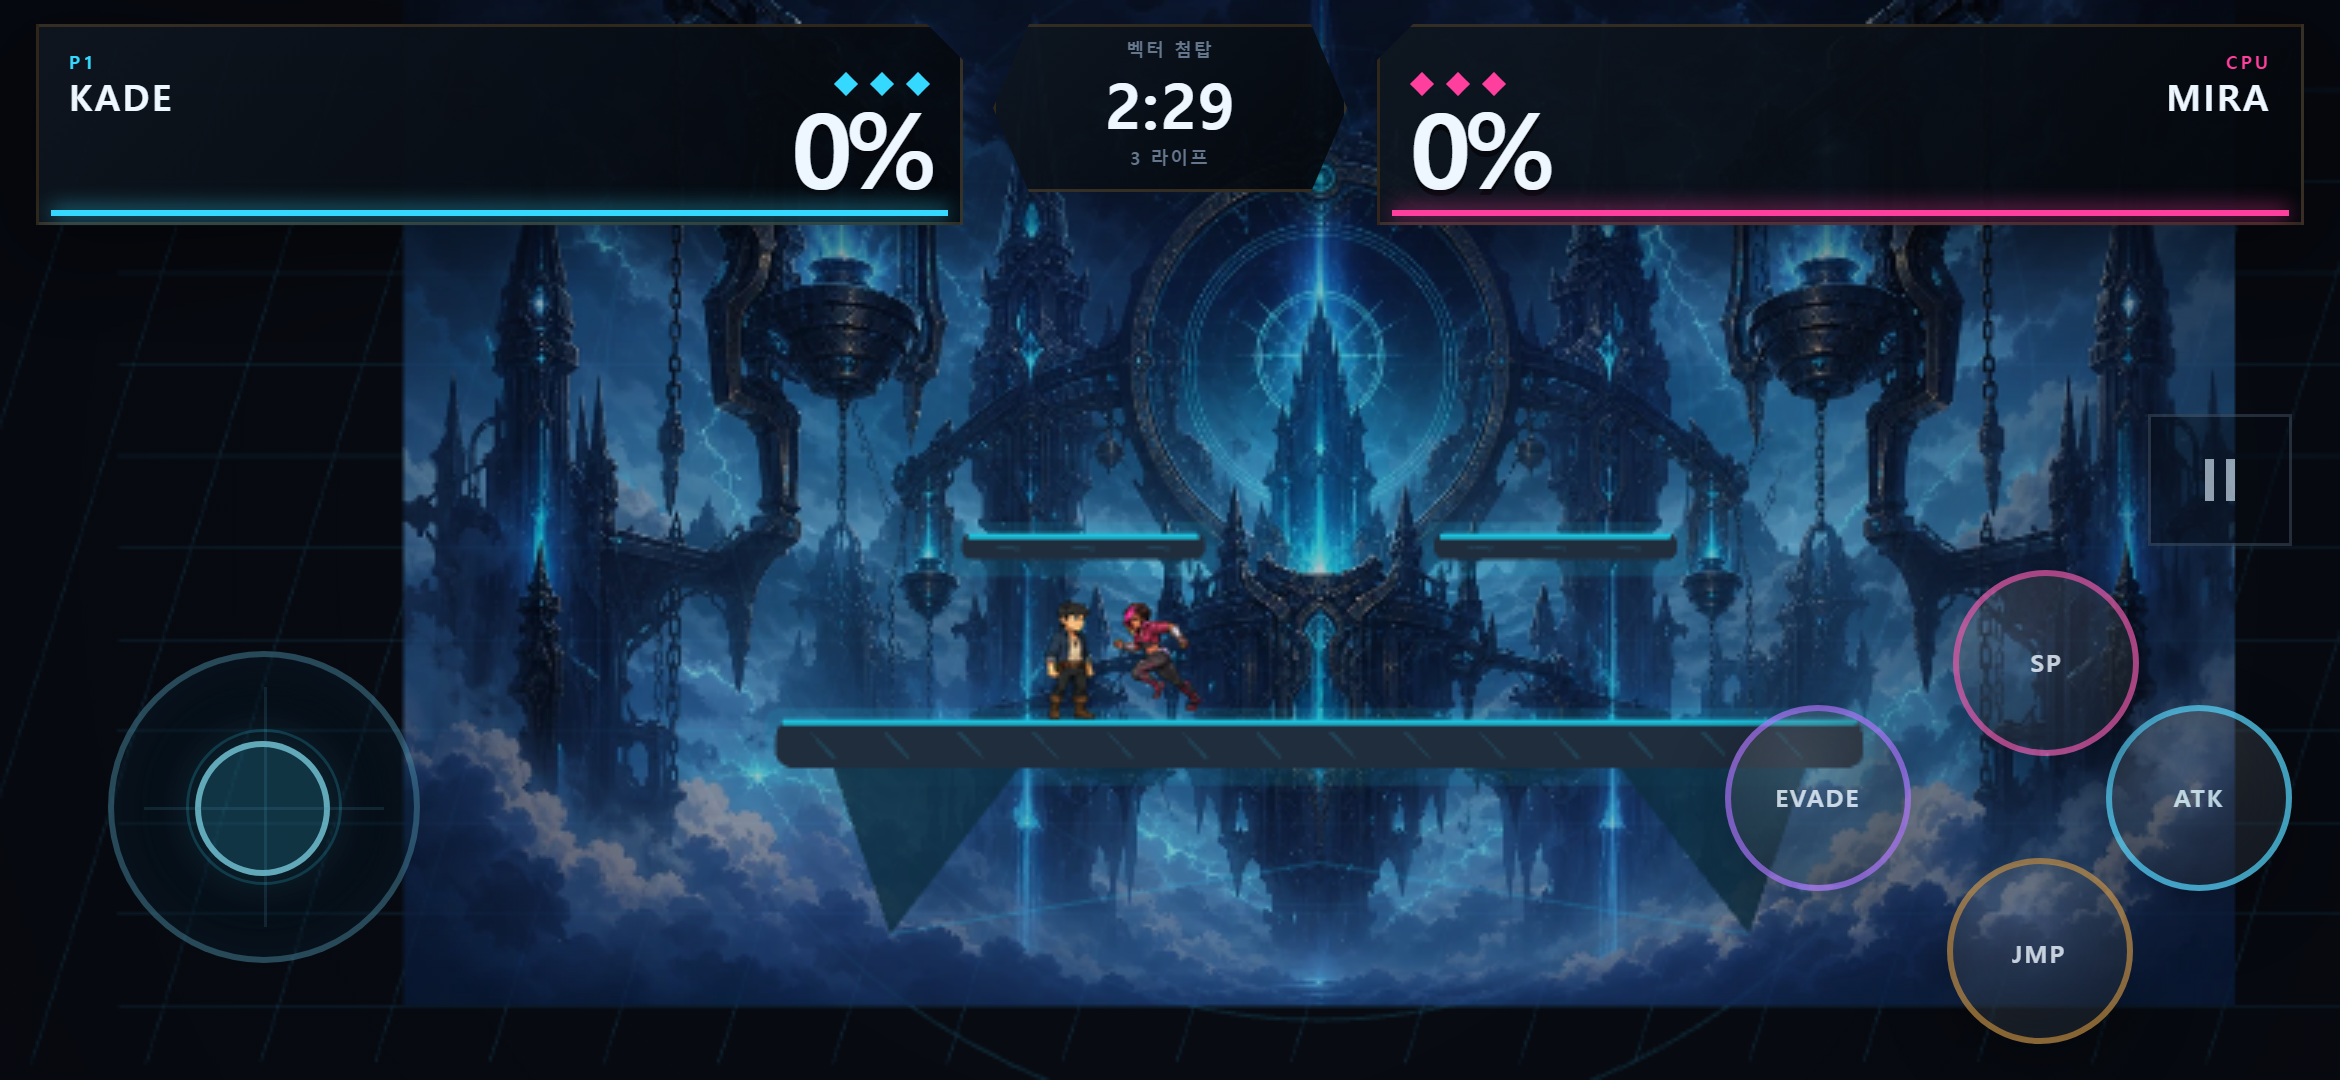
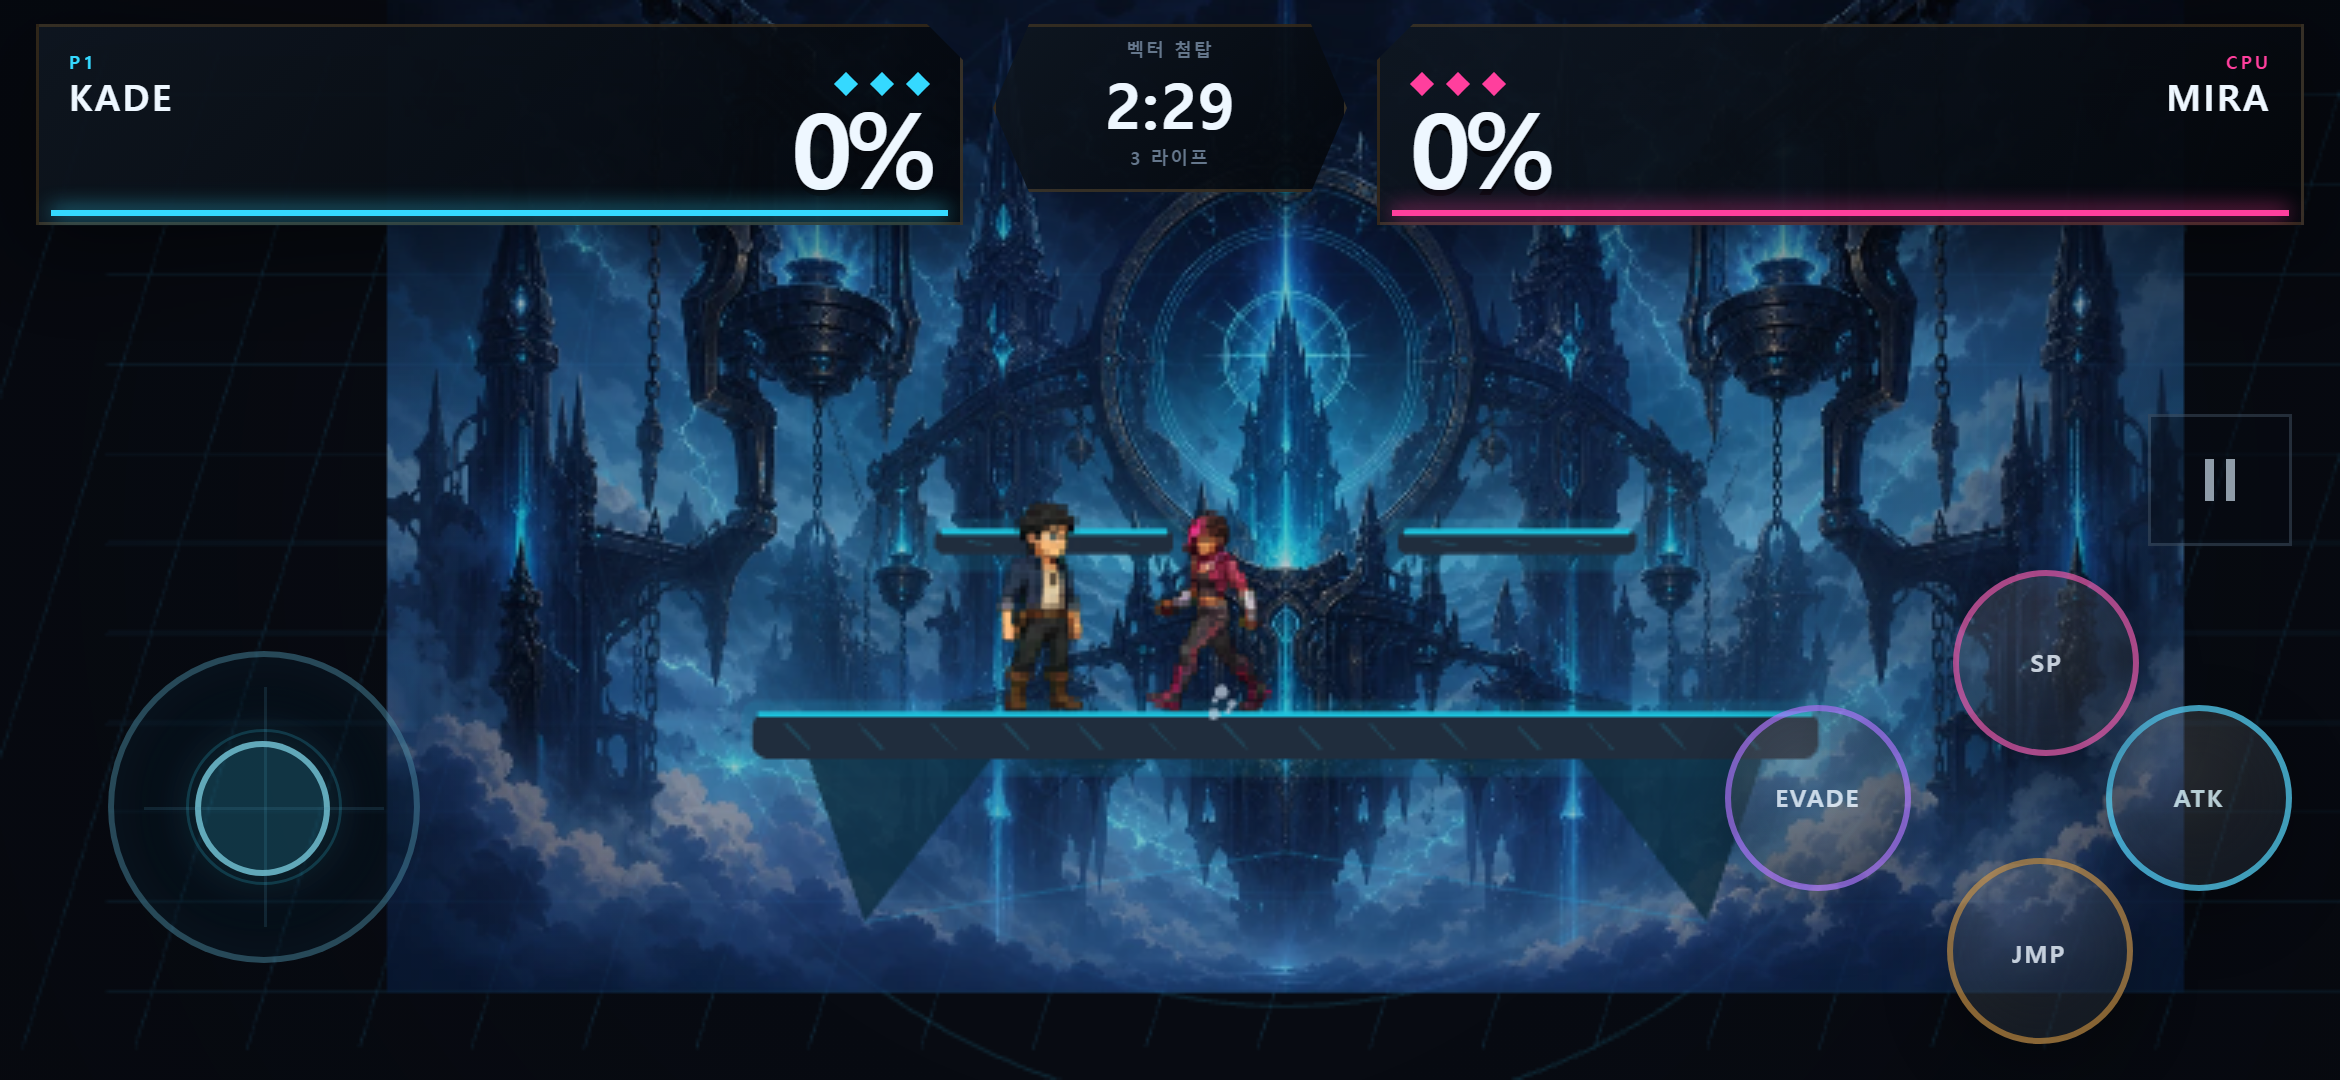
Improve mobile landscape combat visibility

diff --git a/src/ui/App.ts b/src/ui/App.ts
@@ -52,6 +52,7 @@ interface DebugBridge {
   getState: () => WorldState | null;
   getPlayerSpriteSnapshot: () => SpriteAnimatorSnapshot | null;
   getFighterSpriteSnapshot: (id: FighterInstanceId) => SpriteAnimatorSnapshot | null;
+  getFighterVisualScale: () => number;
   isStageBackgroundReady: () => boolean;
   getAudioState: () => AudioContextState | 'uninitialized';
   releaseInputs: () => void;
@@ -413,6 +414,7 @@ export class RiftForgeApp {
       hazards: mode === 'debug' ? false : this.settings.hazards,
     };
     this.renderGameShell(options);
+    this.updateVirtualLandscape();
     const parent = requiredElement<HTMLElement>(this.root, '[data-game-canvas]');
     const touchRoot = requiredElement<HTMLElement>(this.root, '[data-touch-root]');
     this.input.attachTouch(touchRoot);
@@ -436,6 +438,7 @@ export class RiftForgeApp {
         getState: () => this.renderer?.scene.getWorld() ?? null,
         getPlayerSpriteSnapshot: () => this.renderer?.scene.getPlayerSpriteSnapshot() ?? null,
         getFighterSpriteSnapshot: (id) => this.renderer?.scene.getFighterSpriteSnapshot(id) ?? null,
+        getFighterVisualScale: () => this.renderer?.scene.getFighterVisualScale() ?? 1,
         isStageBackgroundReady: () => this.renderer?.scene.isStageBackgroundReady() ?? false,
         getAudioState: () => this.audio.getContextState(),
         releaseInputs: () => this.input.releaseAll(),
@@ -677,7 +680,10 @@ export class RiftForgeApp {
       case 'training': this.beginSelection('training'); break;
       case 'shop': this.setScreen('shop'); break;
       case 'help': this.setScreen('help'); break;
-      case 'debug': this.startGame('debug'); break;
+      case 'debug':
+        void this.requestLandscapeOrientation();
+        this.startGame('debug');
+        break;
       case 'open-settings':
         this.settingsReturnScreen = this.screen;
         this.setScreen('settings');
@@ -710,7 +716,10 @@ export class RiftForgeApp {
         }
         break;
       case 'stages-next':
-        if (this.selection.mode === 'training') this.startGame('training');
+        if (this.selection.mode === 'training') {
+          void this.requestLandscapeOrientation();
+          this.startGame('training');
+        }
         else this.setScreen('difficulty');
         break;
       case 'select-difficulty':
@@ -719,7 +728,10 @@ export class RiftForgeApp {
           this.renderDifficultySelect();
         }
         break;
-      case 'begin-match': this.startGame('quick'); break;
+      case 'begin-match':
+        void this.requestLandscapeOrientation();
+        this.startGame('quick');
+        break;
       case 'toggle-setting': this.toggleSetting(value); break;
       case 'set-language': this.setLanguage(value); break;
       case 'fullscreen': void this.requestFullscreen(); break;
@@ -856,6 +868,7 @@ export class RiftForgeApp {
   }
 
   private handleOrientation(): void {
+    this.updateVirtualLandscape();
     if (this.screen !== 'game' || this.renderer === null || this.matchEnded) return;
     if (this.isPortrait()) {
       if (!this.manuallyPaused) this.autoPausedByPortrait = true;
@@ -873,7 +886,34 @@ export class RiftForgeApp {
   }
 
   private isPortrait(): boolean {
-    return window.innerHeight > window.innerWidth;
+    return window.innerHeight > window.innerWidth && !document.documentElement.classList.contains('virtual-landscape');
+  }
+
+  private updateVirtualLandscape(): void {
+    const shouldRotate = this.screen === 'game'
+      && window.innerHeight > window.innerWidth
+      && (window.matchMedia('(pointer: coarse)').matches || navigator.maxTouchPoints > 0);
+    document.documentElement.classList.toggle('virtual-landscape', shouldRotate);
+  }
+
+  private async requestLandscapeOrientation(): Promise<void> {
+    const orientation = screen.orientation as (ScreenOrientation & {
+      lock?: (value: 'landscape') => Promise<void>;
+    }) | undefined;
+    if (orientation?.lock === undefined) return;
+    try {
+      // Most mobile browsers only allow orientation locking from a user gesture
+      // while fullscreen (installed PWAs can honor the manifest directly).
+      if (import.meta.env.MODE !== 'test'
+        && document.fullscreenElement === null
+        && document.documentElement.requestFullscreen !== undefined) {
+        await document.documentElement.requestFullscreen();
+      }
+      await orientation.lock('landscape');
+    } catch {
+      // Browser tabs (notably iOS Safari) can reject orientation locking.
+      // The virtual-landscape layout remains active as a no-error fallback.
+    }
   }
 
   private async requestFullscreen(): Promise<void> {
@@ -921,6 +961,7 @@ export class RiftForgeApp {
     this.hud = null;
     this.matchEnded = false;
     this.manuallyPaused = false;
+    document.documentElement.classList.remove('virtual-landscape');
     delete window.__RIFT_DEBUG__;
   }
 }

diff --git a/tests/e2e/flow.spec.ts b/tests/e2e/flow.spec.ts
@@ -22,6 +22,7 @@ test.describe('Galaxy S23 complete flow', () => {
     await gotoMain(page);
     await startQuickMatch(page);
     await expect(page.locator('[data-countdown]')).toHaveClass(/is-hidden/, { timeout: 12_000 });
+    await expect.poll(async () => page.evaluate(() => window.__RIFT_DEBUG__?.getFighterVisualScale() ?? 1)).toBe(1.75);
 
     await dispatchPointer(page, '[data-stick-zone]', 'pointerdown', 11, 0.28, 0.62);
     await dispatchPointer(page, '[data-stick-zone]', 'pointermove', 11, 0.7, 0.62);
@@ -55,13 +56,28 @@ test.describe('Galaxy S23 complete flow', () => {
     await expect(page.locator('.pause-card')).toBeHidden();
 
     await page.setViewportSize({ width: 360, height: 780 });
-    await expect(page.locator('.rotation-gate')).toBeVisible();
-    const tickWhileRotated = await page.evaluate(() => window.__RIFT_DEBUG__?.getState()?.tick ?? 0);
-    await page.waitForTimeout(120);
-    expect(await page.evaluate(() => window.__RIFT_DEBUG__?.getState()?.tick ?? -1)).toBe(tickWhileRotated);
-    await page.setViewportSize({ width: 780, height: 360 });
+    await expect(page.locator('html')).toHaveClass(/virtual-landscape/);
     await expect(page.locator('.rotation-gate')).toBeHidden();
+    const gameLayout = await page.locator('[data-game-shell]').evaluate((element) => ({
+      width: (element as HTMLElement).offsetWidth,
+      height: (element as HTMLElement).offsetHeight,
+    }));
+    expect(gameLayout.width).toBeGreaterThan(gameLayout.height);
+    const tickWhileRotated = await page.evaluate(() => window.__RIFT_DEBUG__?.getState()?.tick ?? 0);
     await expect.poll(async () => page.evaluate(() => window.__RIFT_DEBUG__?.getState()?.tick ?? 0)).toBeGreaterThan(tickWhileRotated);
+
+    // iPhone 16 CSS viewport equivalents: portrait fallback and native landscape.
+    await page.setViewportSize({ width: 393, height: 852 });
+    await expect(page.locator('html')).toHaveClass(/virtual-landscape/);
+    const iphoneLayout = await page.locator('[data-game-shell]').evaluate((element) => ({
+      width: (element as HTMLElement).offsetWidth,
+      height: (element as HTMLElement).offsetHeight,
+    }));
+    expect(iphoneLayout).toEqual({ width: 852, height: 393 });
+    await page.setViewportSize({ width: 852, height: 393 });
+    await expect(page.locator('html')).not.toHaveClass(/virtual-landscape/);
+    await expect(page.locator('.rotation-gate')).toBeHidden();
+    await expect.poll(async () => page.evaluate(() => window.__RIFT_DEBUG__?.getFighterVisualScale() ?? 1)).toBe(1.75);
 
     await holdTouchPause(page);
     await expect.poll(async () => page.evaluate(() => window.__RIFT_DEBUG__?.getAudioState() ?? 'uninitialized')).toBe('suspended');

diff --git a/src/styles.css b/src/styles.css
@@ -847,3 +847,51 @@ body {
   animation-iteration-count: 1 !important;
   transition-duration: .001ms !important;
 }
+
+/* Mobile browsers do not consistently expose orientation locking. When a bout
+   starts in portrait, rotate only the game shell and give Phaser true landscape
+   layout dimensions. Menus remain naturally usable before the match starts. */
+html.virtual-landscape .game-shell {
+  --safe-top: env(safe-area-inset-right, 0px);
+  --safe-right: env(safe-area-inset-bottom, 0px);
+  --safe-bottom: env(safe-area-inset-left, 0px);
+  --safe-left: env(safe-area-inset-top, 0px);
+  position: fixed;
+  top: 0;
+  left: 100dvw;
+  width: 100dvh;
+  height: 100dvw;
+  min-height: 0;
+  transform: rotate(90deg);
+  transform-origin: top left;
+}
+
+html.virtual-landscape .game-shell .rotation-gate { display: none; }
+
+html.virtual-landscape .combat-hud {
+  left: max(8px,var(--safe-left));
+  right: max(8px,var(--safe-right));
+  top: max(5px,var(--safe-top));
+  grid-template-columns: minmax(145px,1fr) 92px minmax(145px,1fr);
+  gap: 5px;
+}
+html.virtual-landscape .fighter-hud { min-height: 42px; padding: 5px 8px 6px; }
+html.virtual-landscape .hud-name strong { font-size: 10px; }
+html.virtual-landscape .damage-value { margin-top: -9px; font-size: 25px; }
+html.virtual-landscape .match-clock time { font-size: 17px; }
+html.virtual-landscape .training-panel,
+html.virtual-landscape .debug-panel { top: calc(max(5px,var(--safe-top)) + 49px); }
+html.virtual-landscape .training-actions button,
+html.virtual-landscape .training-actions > span { min-height: 22px; padding: 0 6px; font-size: 6px; }
+html.virtual-landscape .action-cluster { right: max(10px,var(--safe-right)); bottom: max(7px,var(--safe-bottom)); }
+html.virtual-landscape .control-pause { top: -42px; height: 38px; }
+html.virtual-landscape .pause-card,
+html.virtual-landscape .result-card { padding: 16px 20px; }
+html.virtual-landscape .pause-card h1,
+html.virtual-landscape .result-card h1 { margin-bottom: 8px; }
+html.virtual-landscape .pause-card > button { min-height: 40px; }
+html.virtual-landscape .result-stats { margin: 6px 0; }
+html.virtual-landscape .result-stats span { padding: 6px 3px; }
+html.virtual-landscape .result-actions .primary-button,
+html.virtual-landscape .result-actions .secondary-button,
+html.virtual-landscape .result-actions .text-button { min-height: 40px; }

diff --git a/src/render/ArenaScene.ts b/src/render/ArenaScene.ts
@@ -57,6 +57,9 @@ const PLAYER_SPRITE_FRAME_SIZE = 64;
 const PLAYER_SPRITE_DISPLAY_SIZE = 128;
 const PLAYER_SPRITE_REFERENCE_HEIGHT = 86;
 const PLAYER_SPRITE_FOOT_BASELINE = 60;
+const COMPACT_FIGHTER_VISUAL_SCALE = 1.75;
+const COMPACT_VIEWPORT_MAX_WIDTH = 960;
+const COMPACT_VIEWPORT_MAX_HEIGHT = 520;
 
 interface FighterSpriteTracking {
   animation: SpriteAnimationName;
@@ -239,6 +242,14 @@ export class ArenaScene extends Phaser.Scene {
     return this.fighterSpriteAnimators[id]?.snapshot() ?? null;
   }
 
+  getFighterVisualScale(): number {
+    const viewportWidth = Math.max(window.innerWidth, window.innerHeight);
+    const viewportHeight = Math.min(window.innerWidth, window.innerHeight);
+    return viewportWidth <= COMPACT_VIEWPORT_MAX_WIDTH && viewportHeight <= COMPACT_VIEWPORT_MAX_HEIGHT
+      ? COMPACT_FIGHTER_VISUAL_SCALE
+      : 1;
+  }
+
   isStageBackgroundReady(): boolean {
     return this.stageBackgroundImage !== null;
   }
@@ -375,7 +386,11 @@ export class ArenaScene extends Phaser.Scene {
     const feet = fighter.position.y + bob;
     const facing = fighter.facing;
     const alpha = fighter.status === 'respawn' ? 0.35 + Math.abs(Math.sin(this.world.tick / 6)) * 0.55 : 1;
-    const displaySize = PLAYER_SPRITE_DISPLAY_SIZE * (definition.stats.height / PLAYER_SPRITE_REFERENCE_HEIGHT);
+    // This scale affects only the artwork. Physics coordinates, hurtboxes and hitboxes
+    // continue to use the unchanged fighter definition dimensions.
+    const displaySize = PLAYER_SPRITE_DISPLAY_SIZE
+      * (definition.stats.height / PLAYER_SPRITE_REFERENCE_HEIGHT)
+      * this.getFighterVisualScale();
     const footOffset = (PLAYER_SPRITE_FRAME_SIZE - PLAYER_SPRITE_FOOT_BASELINE) * (displaySize / PLAYER_SPRITE_FRAME_SIZE);
     const spriteDrawn = this.fighterSpriteAnimators[fighter.id]?.draw({
       x,

diff --git a/tests/e2e/visual.spec.ts b/tests/e2e/visual.spec.ts
@@ -40,8 +40,9 @@ test('captures required visual QA surfaces', async ({ page }, testInfo) => {
     await gotoMain(page);
     await startQuickMatch(page);
     await page.setViewportSize({ width: 360, height: 780 });
-    await expect(page.locator('.rotation-gate')).toBeVisible();
-    await page.screenshot({ path: resolve(SCREENSHOT_DIR, 'galaxy-s23-portrait-rotation.png') });
+    await expect(page.locator('html')).toHaveClass(/virtual-landscape/);
+    await expect(page.locator('.rotation-gate')).toBeHidden();
+    await page.screenshot({ path: resolve(SCREENSHOT_DIR, 'galaxy-s23-portrait-auto-landscape.png') });
   } else if (project === 'narrow-320') {
     await gotoMain(page);
     await page.screenshot({ path: resolve(SCREENSHOT_DIR, 'narrow-320.png'), fullPage: true });
